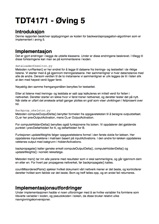
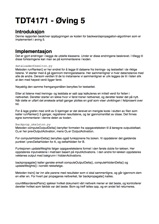
Add average run posibilty to code, update Report

Changed region(s): [[0.0755, 0.4688, 0.9057, 0.9062]]

diff --git a/python_code/dataLoaderSkeleton.py b/python_code/dataLoaderSkeleton.py
@@ -97,11 +97,27 @@ def runRanker(trainingset, testset):
     #TODO: Store the data returned by countMisorderedPairs and plot it, showing how training and testing errors develop.
     #Printing graph with pylab
 
-    plot(range(1,numIterations+2),test_error_percent, label="Test set")
-    plot(range(1,numIterations+2),training_error_percent, label="Training set")
-    legend(bbox_to_anchor=(0., 1.02, 1., .102), loc=3, ncol=2, mode="expand", borderaxespad=0.)
-    ylim([0,1])
-    show()
+    #plot(range(1,numIterations+2),test_error_percent, label="Test set")
+    #plot(range(1,numIterations+2),training_error_percent, label="Training set")
+    #legend(bbox_to_anchor=(0., 1.02, 1., .102), loc=3, ncol=2, mode="expand", borderaxespad=0.)
+    #ylim([0,1])
+    #show()
+    return test_error_percent, training_error_percent
 
 
-runRanker("../data_sets/train.txt","../data_sets/test.txt")
+total_test = [0.0]*26
+total_training = [0.0]*26
+for i in range(0,5):
+    test, training = runRanker("../data_sets/train.txt","../data_sets/test.txt")
+    for j in range(len(test)):
+        total_test[j] += test[j]
+        total_training += training[j]
+
+total_test = [x/5 for x in total_test]
+total_training = [x/5 for x in total_training]
+
+plot(range(1,27),total_test, label="Test set")
+plot(range(1,27), total_training, label="Training set")
+legend(bbox_to_anchor=(0., 1.02, 1., .102), loc=3, ncol=2, mode="expand", borderaxespad=0.)
+ylim([0,1])
+show()
